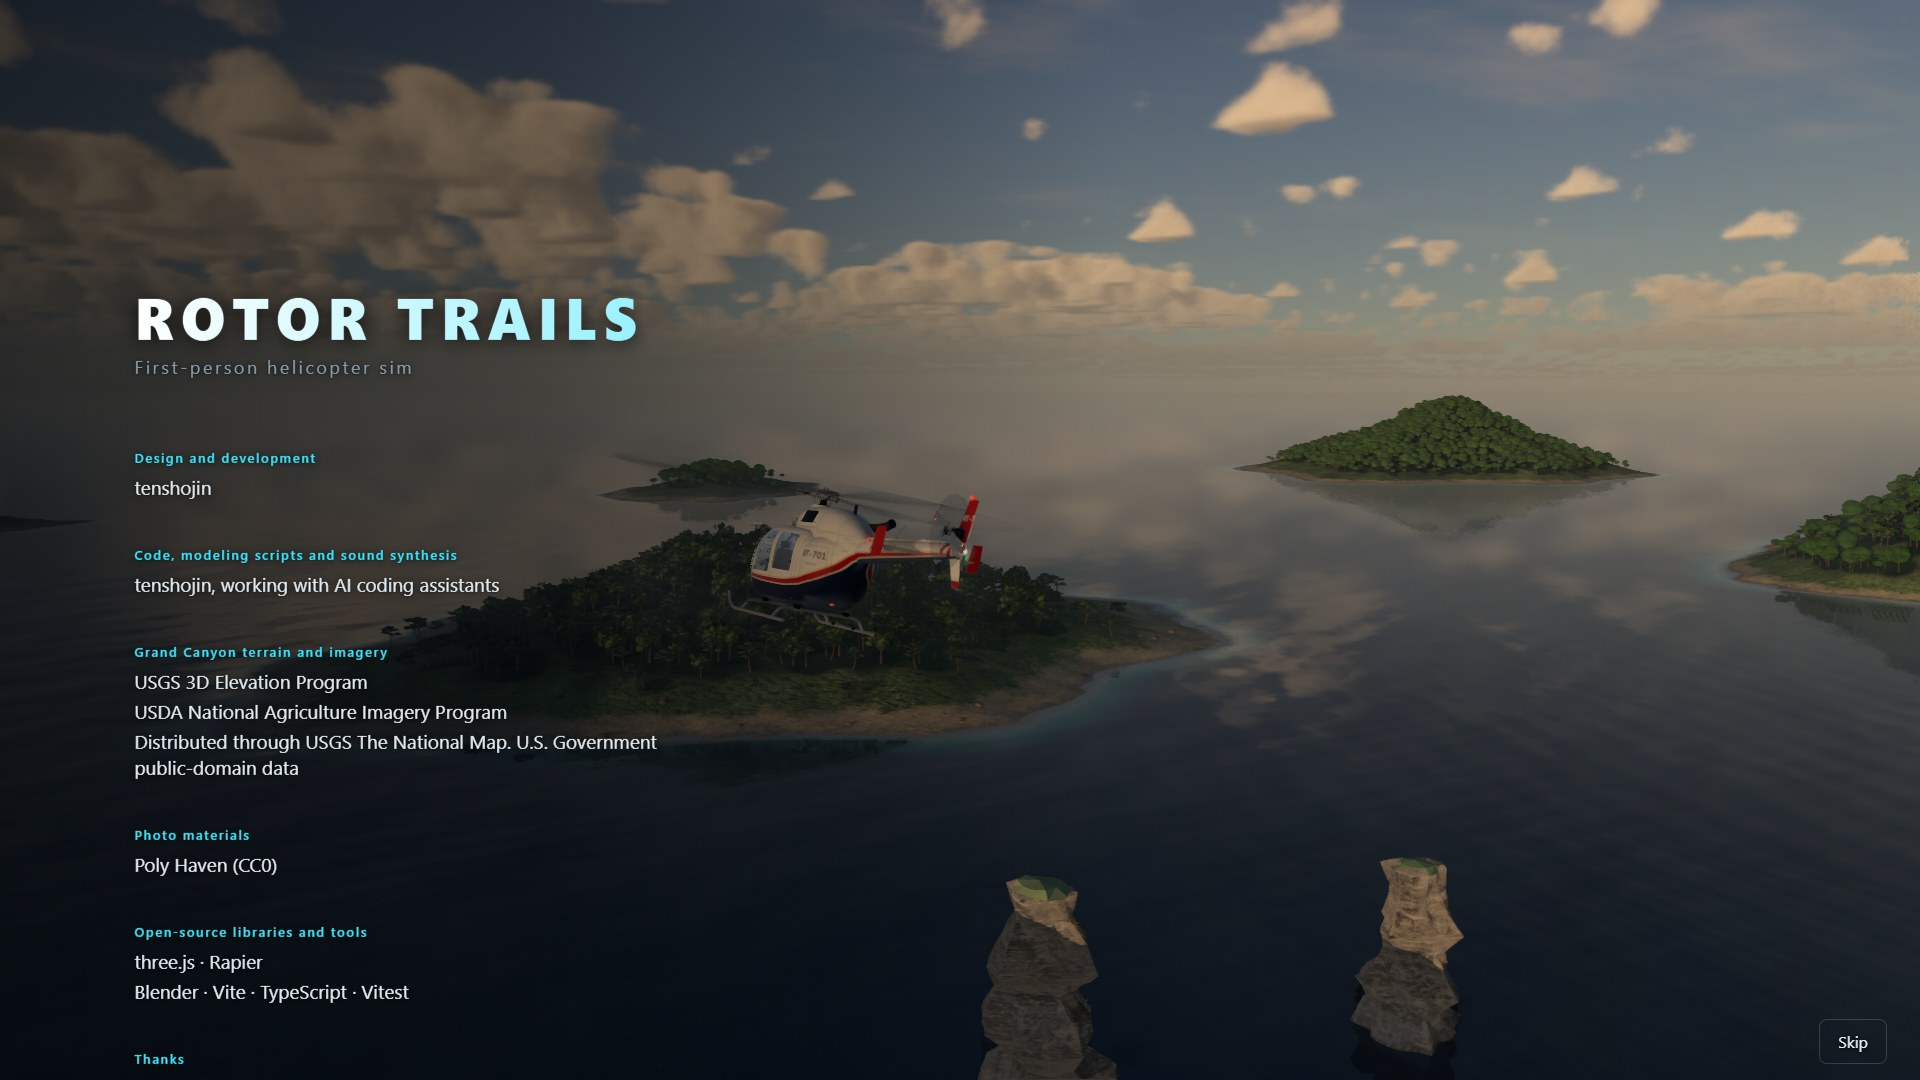
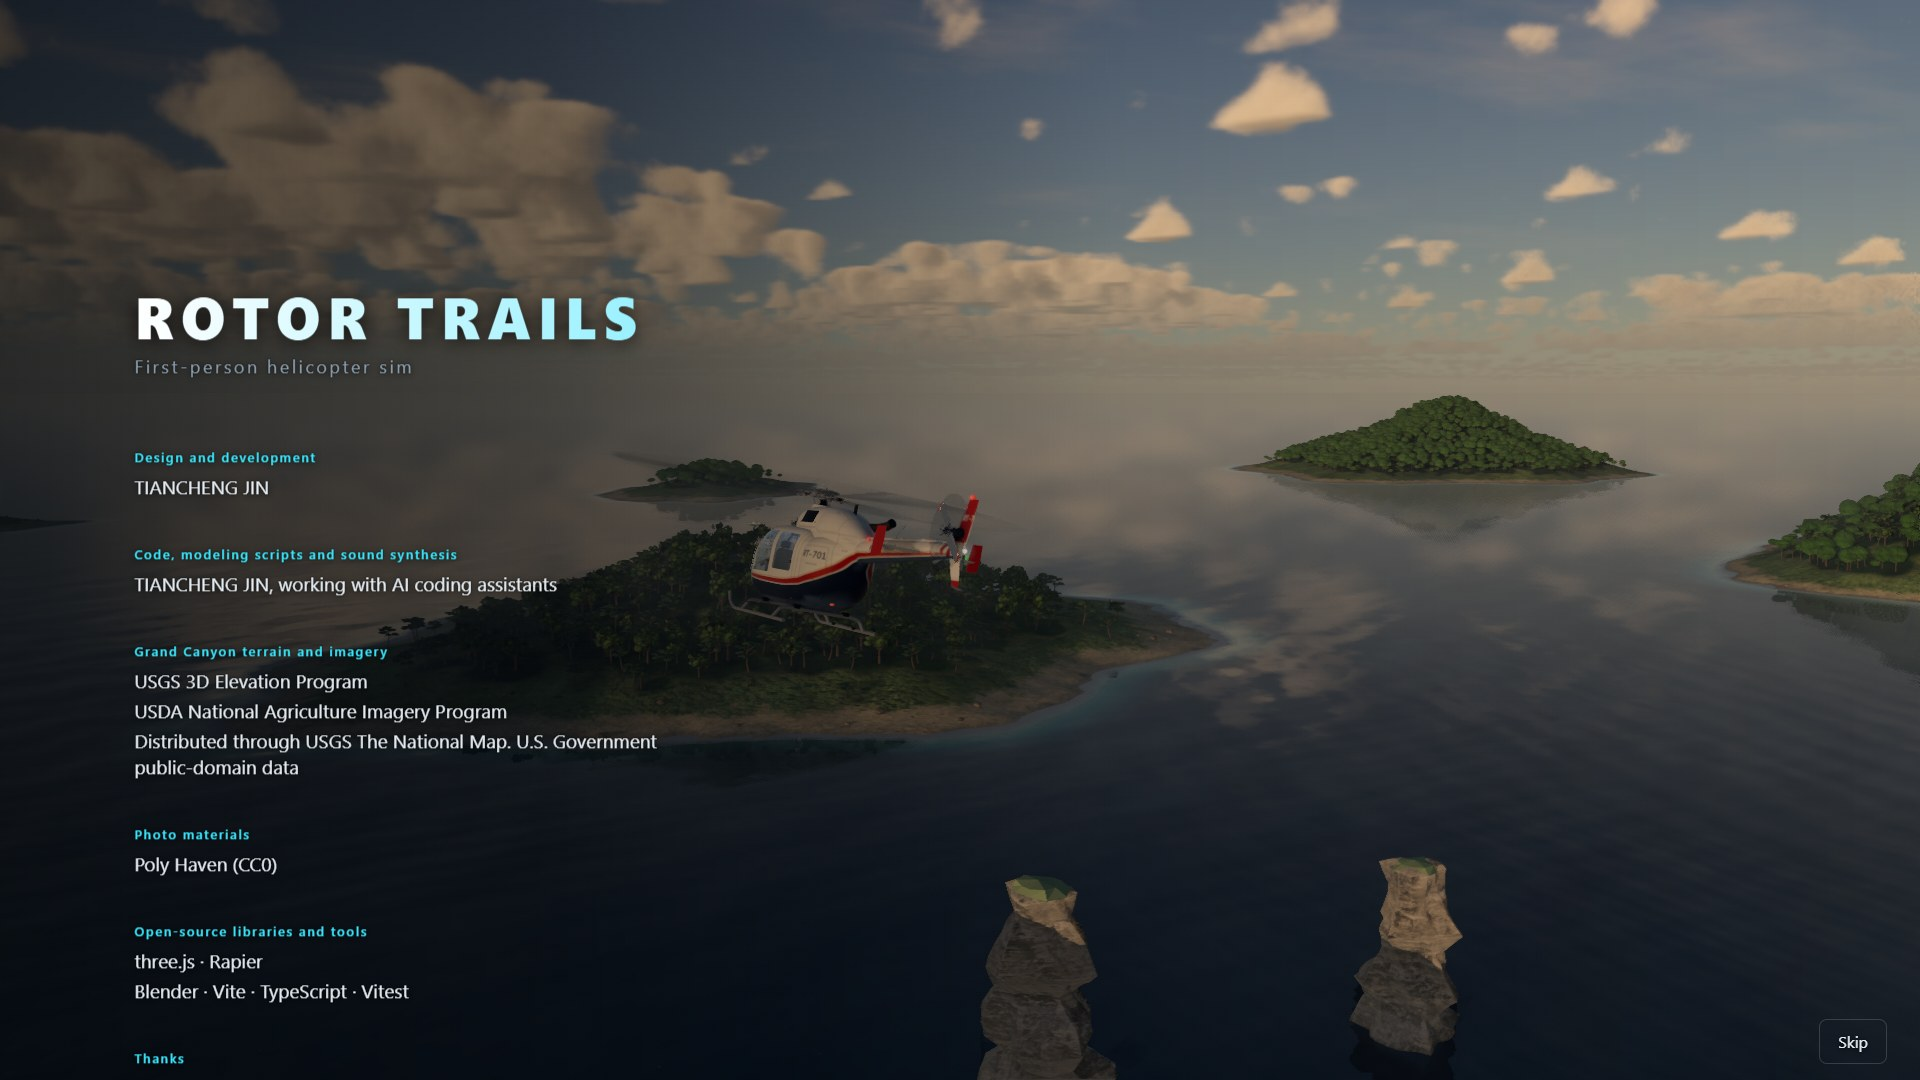
署名换成 TIANCHENG JIN：制作人员名单、三种语言的译文、媒体资料和名单截图
名字放在 src/game/version.ts 的 AUTHOR，名单里那句改成带占位的译文（{0}，与 AI 编程助手协作）。
tenshojin 是 GitHub 账号名，只留在网址里。

diff --git a/src/ui/menus.ts b/src/ui/menus.ts
@@ -10,7 +10,7 @@ import type { LandingMetrics } from '../sim/mission';
 import type { Lesson } from '../game/tutorial';
 import { GRADE_LABEL } from '../sim/mission';
 import { LANGS, tr, type Lang, type LangSetting } from '../i18n';
-import { FEEDBACK_URL, VERSION } from '../game/version';
+import { AUTHOR, FEEDBACK_URL, VERSION } from '../game/version';
 
 export interface CheckpointItem {
   index: number;
@@ -693,8 +693,8 @@ export class UI {
         <div class="credits-roll">
           <h1 class="logo">ROTOR TRAILS</h1>
           <div class="logo-sub">${tr`旋翼航迹`}</div>
-          ${block(tr('设计与制作'), ['tenshojin'])}
-          ${block(tr('代码、建模脚本与声音合成'), [tr('tenshojin，与 AI 编程助手协作')])}
+          ${block(tr('设计与制作'), [AUTHOR])}
+          ${block(tr('代码、建模脚本与声音合成'), [tr`${AUTHOR}，与 AI 编程助手协作`])}
           ${block(tr('大峡谷的地形与影像'), ['USGS 3D Elevation Program', 'USDA National Agriculture Imagery Program', tr('经 USGS The National Map 分发，美国政府公有领域数据')])}
           ${block(tr('照片材质'), ['Poly Haven (CC0)'])}
           ${block(tr('开源库与工具'), ['three.js · Rapier', 'Blender · Vite · TypeScript · Vitest'])}

diff --git a/src/i18n/dict/ui_menus.ts b/src/i18n/dict/ui_menus.ts
@@ -207,7 +207,7 @@ const table: Table = {
   '旋翼航迹': ['First-person helicopter sim', '一人称視点のヘリコプターシム'],
   '设计与制作': ['Design and development', 'デザイン・制作'],
   '代码、建模脚本与声音合成': ['Code, modeling scripts and sound synthesis', 'コード・モデリングスクリプト・サウンド合成'],
-  'tenshojin，与 AI 编程助手协作': ['tenshojin, working with AI coding assistants', 'tenshojin（AI コーディングアシスタントと協力）'],
+  '{0}，与 AI 编程助手协作': ['{0}, working with AI coding assistants', '{0}（AI コーディングアシスタントと協力）'],
   '大峡谷的地形与影像': ['Grand Canyon terrain and imagery', 'グランドキャニオンの地形と画像'],
   '经 USGS The National Map 分发，美国政府公有领域数据': ['Distributed through USGS The National Map. U.S. Government public-domain data', 'USGS The National Map 経由で配布、米国政府のパブリックドメインデータ'],
   '照片材质': ['Photo materials', 'フォトマテリアル'],

diff --git a/src/game/version.ts b/src/game/version.ts
@@ -2,5 +2,9 @@
 
 export const VERSION = '1.1';
 
+/** 作者的署名：制作人员名单里写它（媒体资料 docs/press/README.md 里也是这个名字）。
+ *  GitHub 账号名 tenshojin 只出现在网址里，不当署名用 */
+export const AUTHOR = 'TIANCHENG JIN';
+
 /** 玩家反馈问题和建议的地方（关于页的链接） */
 export const FEEDBACK_URL = 'https://github.com/tenshojin/rotor-trails/issues';

diff --git a/docs/award-plan.md b/docs/award-plan.md
@@ -96,7 +96,7 @@
 4. **让人知道这个游戏。** 公众投票拼的是人数。可以做的：发到 Reddit 的 r/WebGames、r/flightsim、r/webgpu，Hacker News 的 Show HN，itch.io 上建一个页面，B 站和 X 上发预告片。
 5. **2027 年 8 月去报名。** 留意 GamesRadar 的公告，报名表一般要游戏名、开发者、发售日期、平台、一段介绍、预告片链接、截图。材料都在 `docs/press/` 里。
 6. **决定代码的授权。** 现在是“保留所有权利”。报奖不需要开源，但写清楚更好。
-7. **看一遍关于 AI 的那一句。** 游戏里的制作人员名单和 `docs/press/README.md` 的 Credits 都写了“与 AI 编程助手协作”。很多奖项和商店要求如实说明，建议保留；怎么措辞你来定（游戏里那句在 `src/ui/menus.ts` 的 `credits()`）。
+7. **看一遍关于 AI 的那一句。** 游戏里的制作人员名单和 `docs/press/README.md` 的 Credits 都写了“与 AI 编程助手协作”。很多奖项和商店要求如实说明，建议保留；怎么措辞你来定（游戏里那句在 `src/ui/menus.ts` 的 `credits()`，署名本身在 `src/game/version.ts` 的 `AUTHOR`）。
 8. **决定要不要报 BitSummit 2027。** 报名到 2027 年 1 月 31 日。它在京都，离你近，是眼下最近的一个真能报名、现场有人玩、有评奖的地方；入选以后要带着游戏到场（费用和要求看官网）。
 
 ## 下一步建议做的（按性价比）

diff --git a/docs/press/README.md b/docs/press/README.md
@@ -14,7 +14,7 @@ Everything a writer, curator or awards judge needs in one place. All text and im
 | **Players** | Single player |
 | **Languages** | English, Japanese, Simplified Chinese |
 | **Input** | Keyboard and mouse, gamepad, touch |
-| **Developer** | tenshojin (solo, self-published) |
+| **Developer** | TIANCHENG JIN (solo, self-published) |
 | **First public version** | November 2026 |
 | **Technology** | TypeScript, three.js (WebGPU with a WebGL2 fallback), Rapier physics |
 | **Source** | https://github.com/tenshojin/rotor-trails |
@@ -82,7 +82,7 @@ Social card (1200 × 630): [`public/og.jpg`](../../public/og.jpg).
 
 ## Credits
 
-- Design, code, modeling scripts and sound: tenshojin, working with AI coding assistants.
+- Design, code, modeling scripts and sound: TIANCHENG JIN, working with AI coding assistants.
 - Elevation data for the Grand Canyon: USGS 3D Elevation Program. Imagery: USDA National Agriculture Imagery Program, 2023, via USGS The National Map. U.S. Government public-domain data, courtesy of the U.S. Geological Survey.
 - Photo materials: [Poly Haven](https://polyhaven.com) (CC0).
 - Libraries: three.js (MIT), Rapier (Apache-2.0). Full list in [THIRD_PARTY_LICENSES.md](../../THIRD_PARTY_LICENSES.md).
